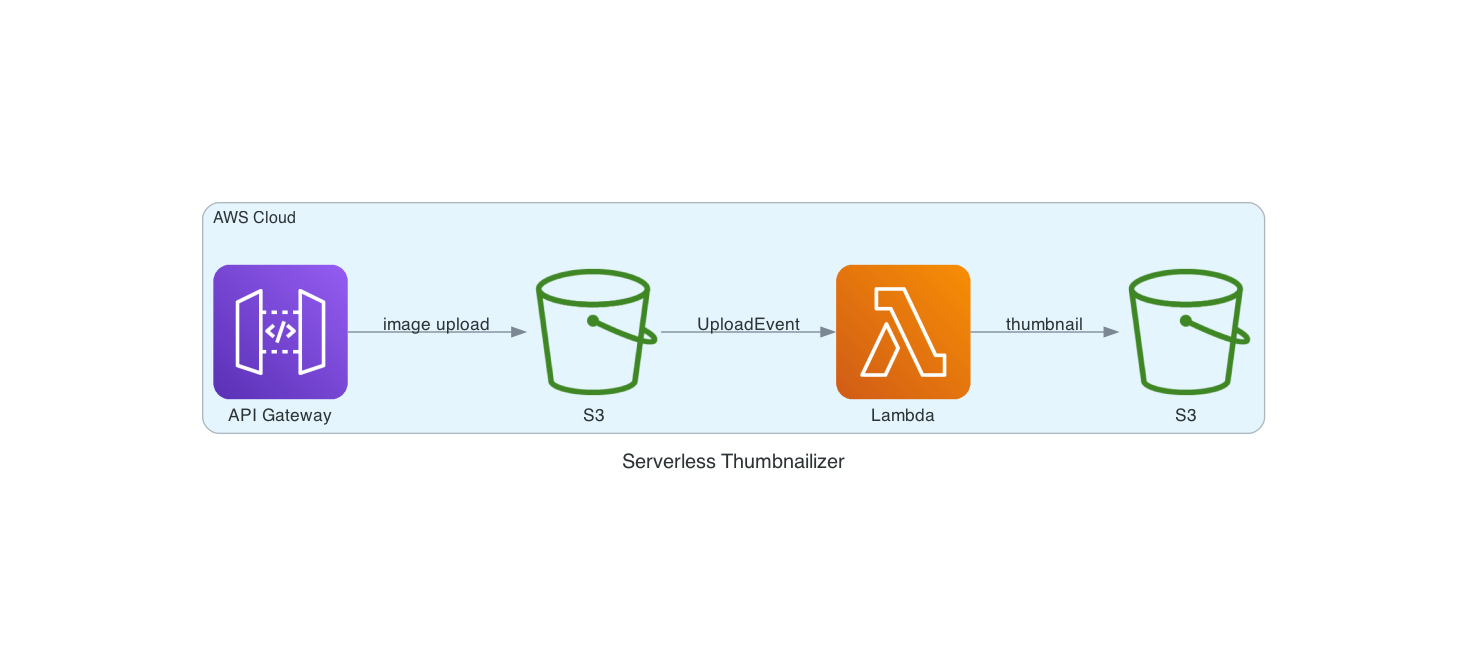
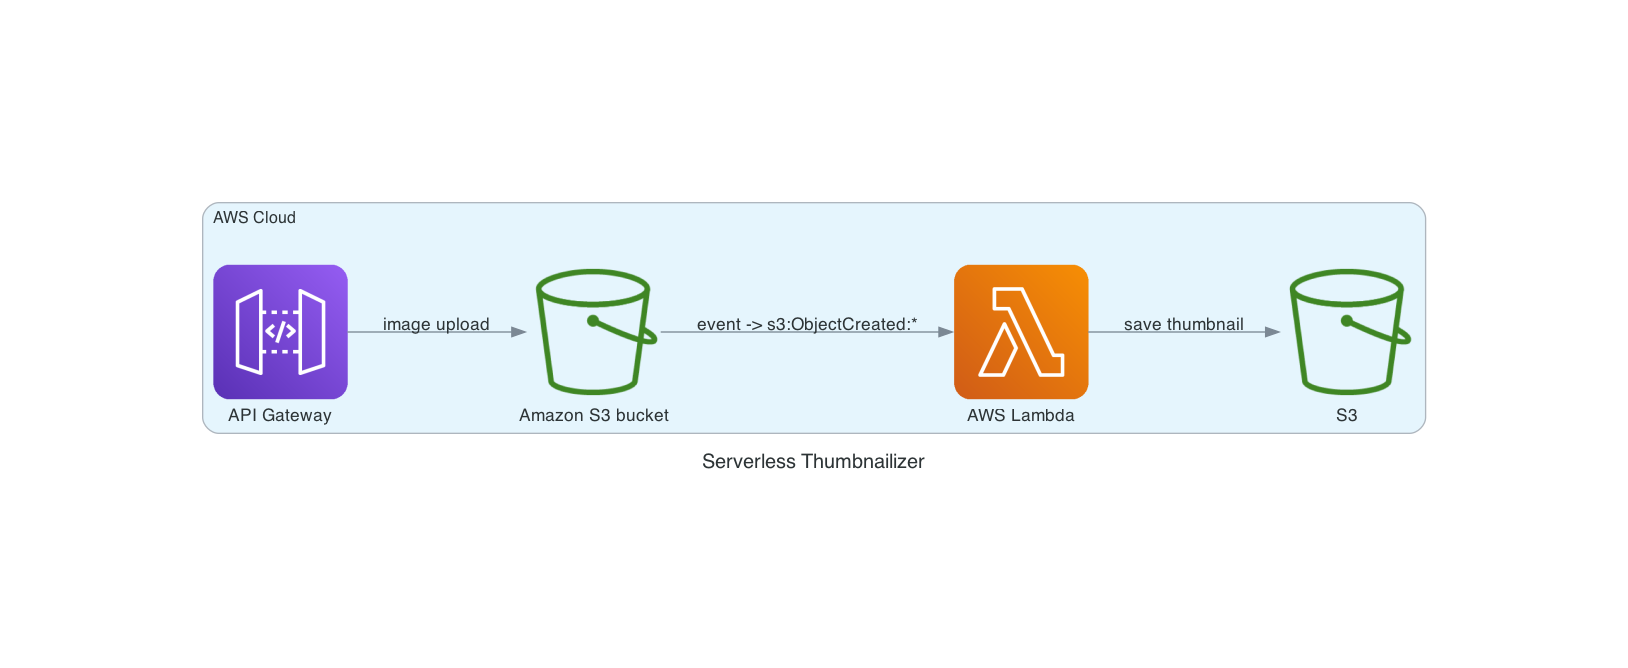
Module docstring + updated labels

Changed region(s): [[0.1227, 0.2994, 0.8896, 0.6587], [0.4294, 0.6587, 0.5828, 0.7186]]

diff --git a/architecture-design/renderer.py b/architecture-design/renderer.py
@@ -1,12 +1,17 @@
-from diagrams import Diagram, Cluster, Edge
+"""
+This pattern creates REST API via API Gateway, acting as an S3 proxy for write operations.
+Reference: https://serverlessland.com/patterns/apigw-s3-lambda-sls-py
 
-from diagrams.aws.network import APIGateway
+"""
+
+from diagrams import Diagram, Cluster, Edge
 from diagrams.aws.compute import Lambda
+from diagrams.aws.network import APIGateway
 from diagrams.aws.storage import SimpleStorageServiceS3Bucket
 
 with (Diagram("Serverless Thumbnailizer", show=False, direction="LR")):
     with Cluster("AWS Cloud"):
         APIGateway("API Gateway") >> Edge(label="image upload") >> SimpleStorageServiceS3Bucket(
-            "S3") >> Edge(label="UploadEvent") >> Lambda("Lambda") >> Edge(
-            label="thumbnail") >> SimpleStorageServiceS3Bucket(
+            "Amazon S3 bucket") >> Edge(label="event -> s3:ObjectCreated:*") >> Lambda("AWS Lambda") >> Edge(
+            label="save thumbnail") >> SimpleStorageServiceS3Bucket(
             "S3")
